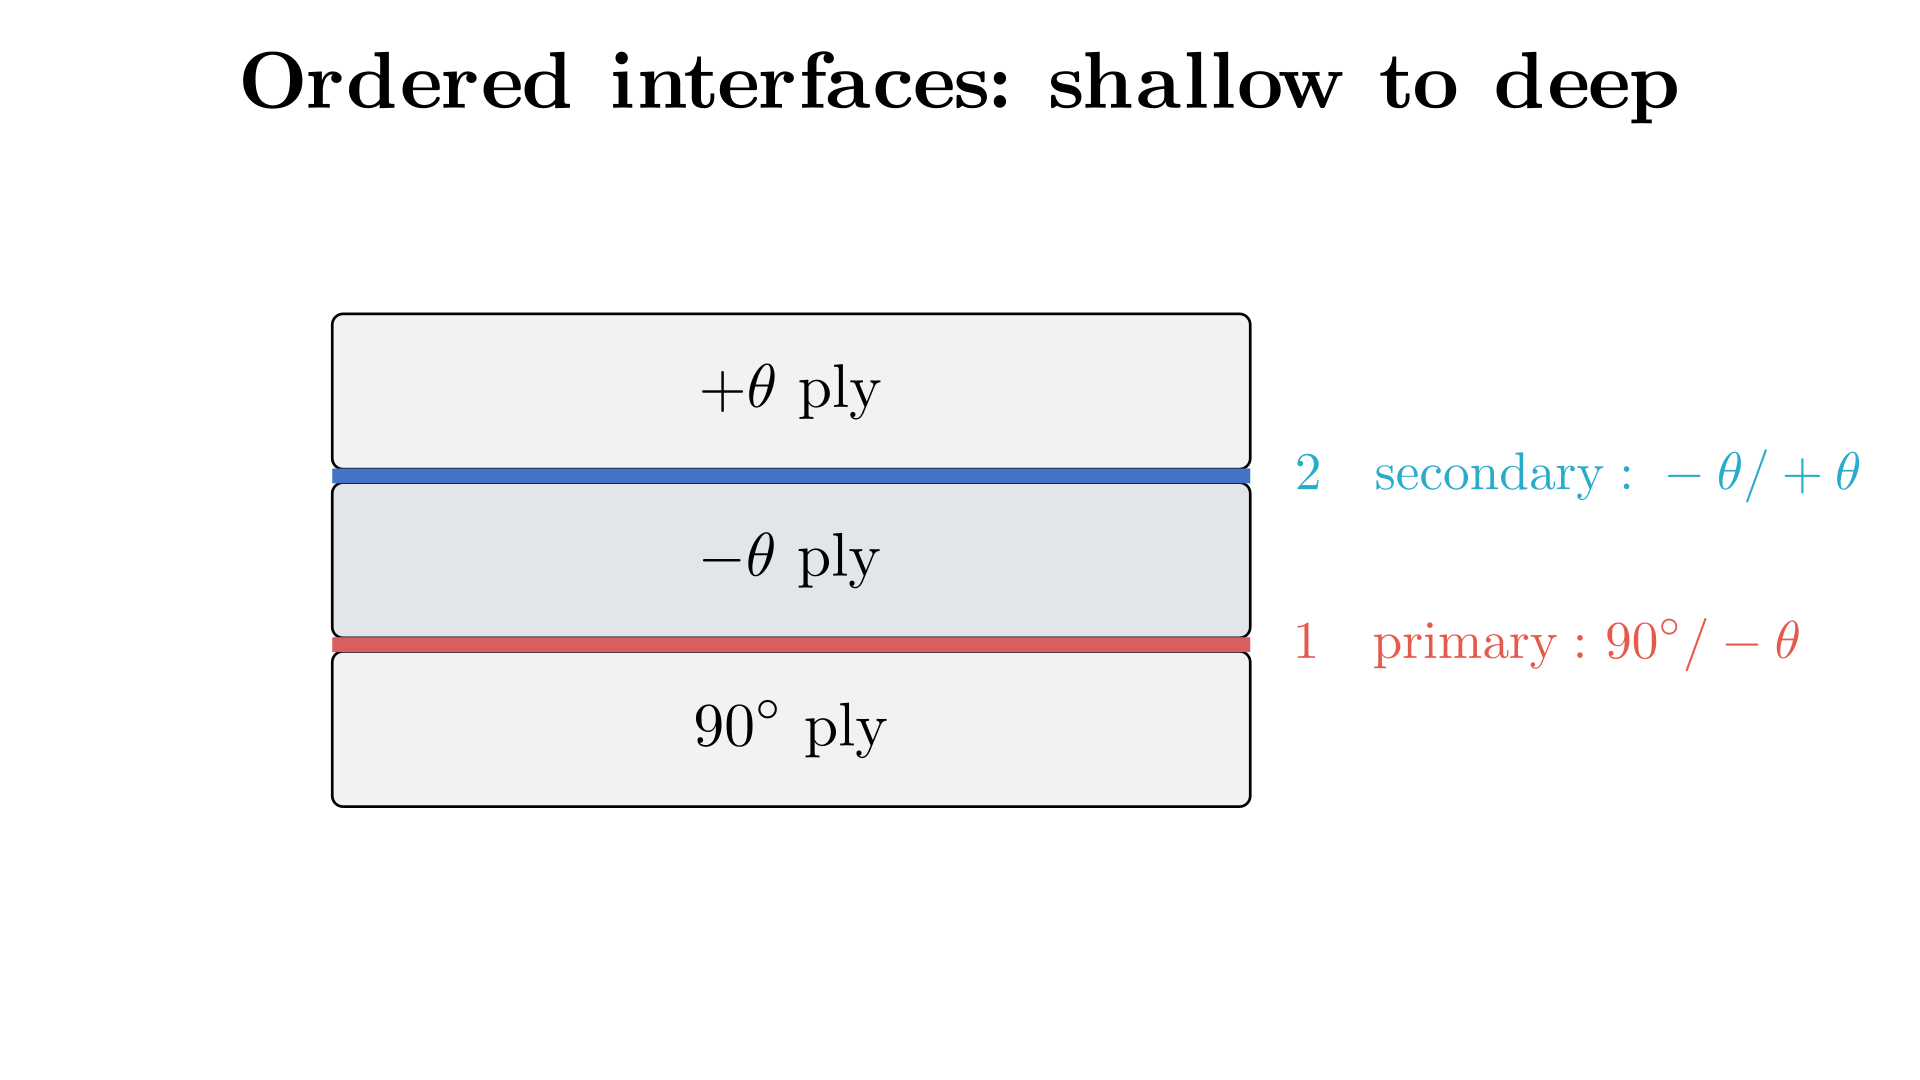
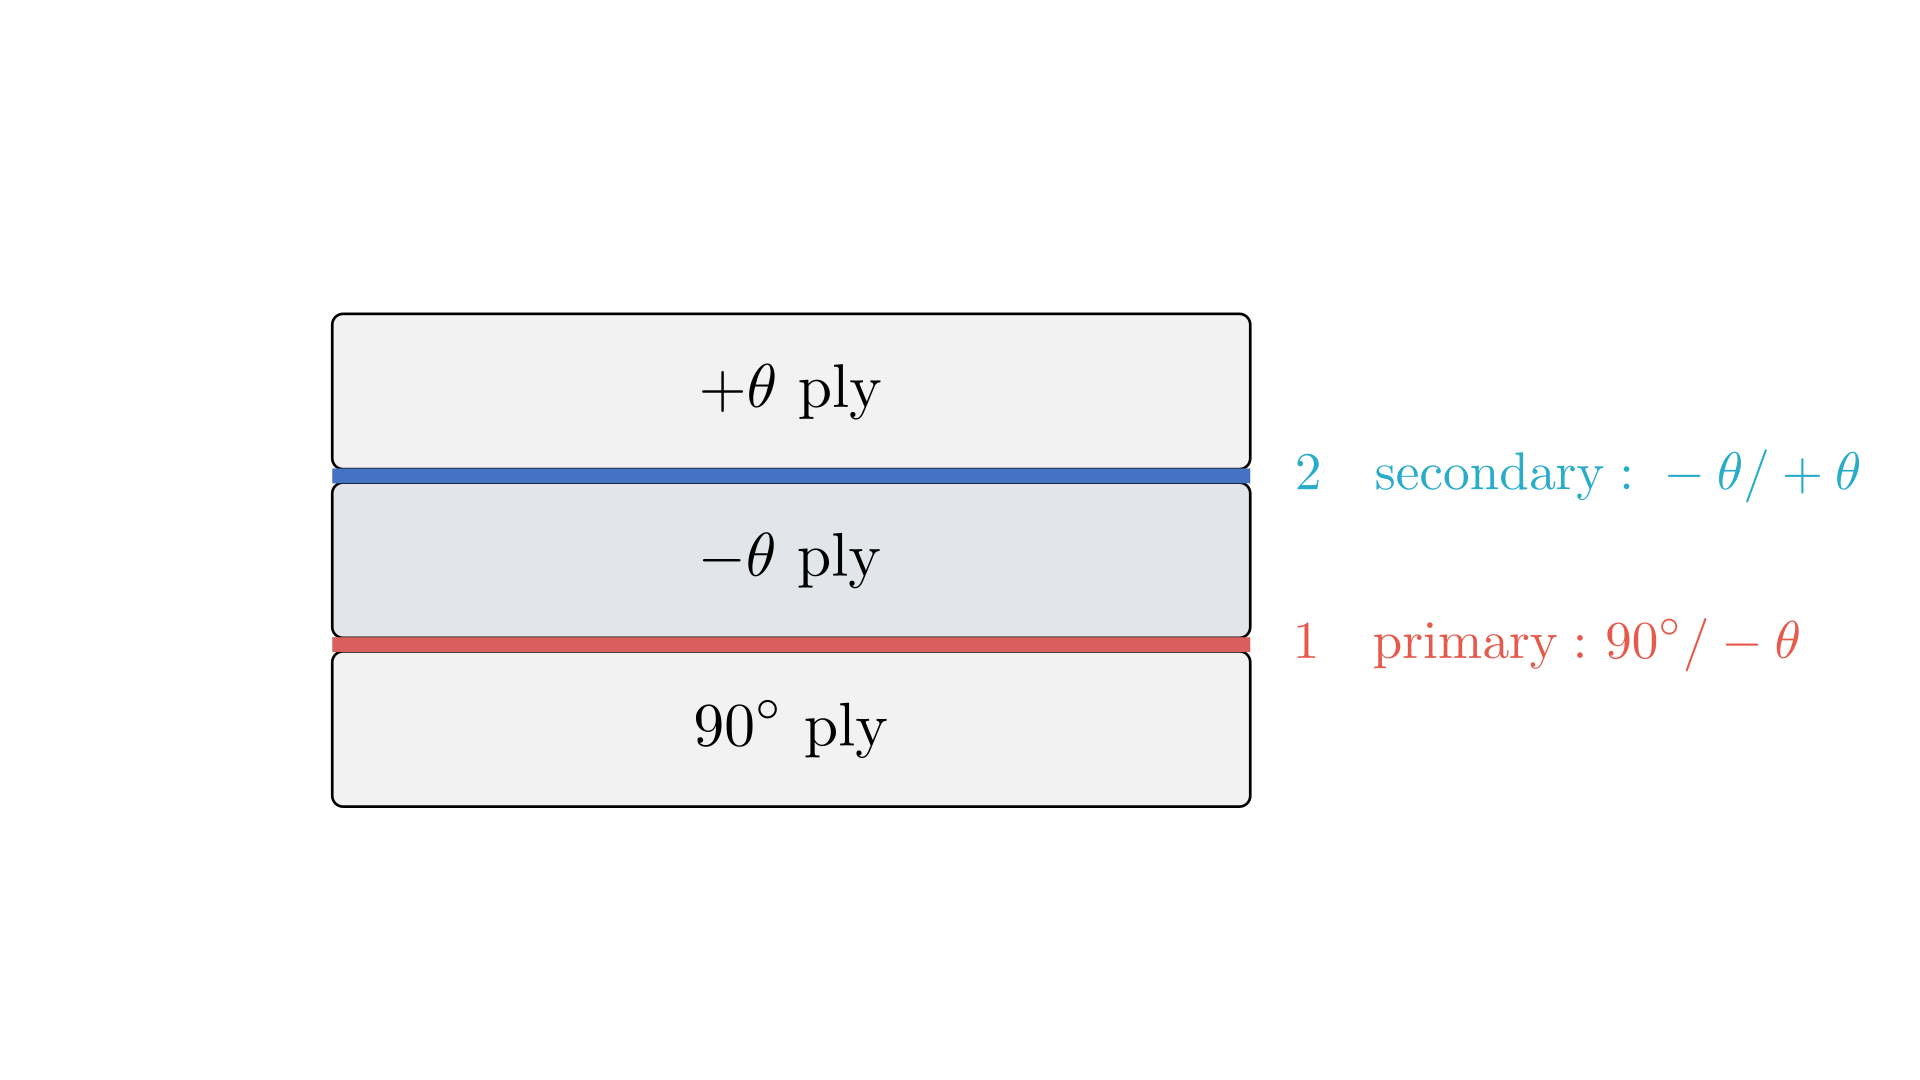
more info in the normalization and some figures

Changed region(s): [[0.125, 0.0306, 0.875, 0.1222]]

diff --git a/docs/generate_history_clamp_figure.py b/docs/generate_history_clamp_figure.py
@@ -1,0 +1,179 @@
+"""Generate the synthetic history-clamp figure used by the documentation."""
+
+from __future__ import annotations
+
+from pathlib import Path
+
+import matplotlib.pyplot as plt
+import numpy as np
+
+from deladect.detection.delamination._preprocess import PreprocessingMixin
+
+
+OUTPUT = Path(__file__).parent / "source" / "_static" / "normalization" / "history_clamp_noise.png"
+N_FRAMES = 25
+SHAPE = (96, 96)
+SAMPLE_FRAMES = (0, 4, 9, 16, 24)
+BACKGROUND_LEVEL = 0.68
+NOISE_SIGMA = 0.075
+SEED = 17
+
+
+class _HistoryProcessor(PreprocessingMixin):
+    """Minimal owner used to call the production history-clamp method."""
+
+    def __init__(self) -> None:
+        self._notice_flags: dict[str, bool] = {}
+
+
+def _synthetic_stack() -> tuple[list[np.ndarray], np.ndarray]:
+    """Return noisy frames and a mask selecting unchanged background pixels."""
+    rng = np.random.default_rng(SEED)
+    yy, xx = np.ogrid[: SHAPE[0], : SHAPE[1]]
+    blobs = (
+        (34, 30, 13),
+        (30, 64, 10),
+        (66, 55, 15),
+    )
+    damage = np.zeros(SHAPE, dtype=bool)
+    for cy, cx, radius in blobs:
+        damage |= (yy - cy) ** 2 + (xx - cx) ** 2 <= radius**2
+
+    stack: list[np.ndarray] = []
+    for _ in range(N_FRAMES):
+        frame = BACKGROUND_LEVEL + rng.normal(0.0, NOISE_SIGMA, SHAPE)
+        frame = np.clip(frame, 0.0, 1.0)
+        frame[damage] = 0.035
+        stack.append(np.round(frame * 255.0).astype(np.uint8))
+    return stack, ~damage
+
+
+def _background_summary(
+    stack: list[np.ndarray], background: np.ndarray
+) -> tuple[np.ndarray, np.ndarray, np.ndarray]:
+    """Return median, 10th percentile, and 90th percentile by frame."""
+    values = np.asarray([frame[background] for frame in stack], dtype=float) / 255.0
+    return (
+        np.median(values, axis=1),
+        np.percentile(values, 10, axis=1),
+        np.percentile(values, 90, axis=1),
+    )
+
+
+def main() -> None:
+    raw_stack, background = _synthetic_stack()
+    clamped_stack = _HistoryProcessor().apply_minimum_history(
+        raw_stack,
+        key="documentation_history_clamp",
+        history_buffers={},
+        mode="running",
+    )["frames"]
+
+    raw_median, raw_p10, raw_p90 = _background_summary(raw_stack, background)
+    clamp_median, clamp_p10, clamp_p90 = _background_summary(clamped_stack, background)
+
+    plt.rcParams.update(
+        {
+            "font.family": "serif",
+            "font.size": 16,
+            "axes.titlesize": 18,
+            "axes.labelsize": 18,
+            "axes.labelweight": "semibold",
+            "xtick.labelsize": 15,
+            "ytick.labelsize": 15,
+            "legend.fontsize": 16,
+        }
+    )
+    fig = plt.figure(figsize=(15.5, 12.2), constrained_layout=True)
+    grid = fig.add_gridspec(3, 10, height_ratios=(1.0, 1.0, 2.25))
+
+    for column, frame_idx in enumerate(SAMPLE_FRAMES):
+        raw_ax = fig.add_subplot(grid[0, 2 * column : 2 * column + 2])
+        clamp_ax = fig.add_subplot(grid[1, 2 * column : 2 * column + 2])
+        for axis, frame in ((raw_ax, raw_stack[frame_idx]), (clamp_ax, clamped_stack[frame_idx])):
+            axis.imshow(frame, cmap="gray", vmin=0, vmax=255, interpolation="nearest")
+            axis.set_xticks([])
+            axis.set_yticks([])
+            for spine in axis.spines.values():
+                spine.set_linewidth(1.4)
+        if column == 0:
+            raw_ax.set_ylabel("Unclamped", fontsize=19, fontweight="semibold")
+            clamp_ax.set_ylabel("History clamp", fontsize=19, fontweight="semibold")
+
+    hist_ax = fig.add_subplot(grid[2, :5])
+    bins = np.linspace(0.34, 1.0, 45)
+    blues = plt.cm.Blues(np.linspace(0.35, 0.90, 4))
+    for color, frame_idx in zip(blues, (0, 4, 9, 24)):
+        hist_ax.hist(
+            clamped_stack[frame_idx][background] / 255.0,
+            bins=bins,
+            histtype="step",
+            linewidth=2.2,
+            color=color,
+            label=f"clamped, frame {frame_idx}",
+        )
+    hist_ax.hist(
+        raw_stack[0][background] / 255.0,
+        bins=bins,
+        histtype="step",
+        linewidth=2.2,
+        linestyle="--",
+        color="#D62728",
+        label="unclamped (representative frame)",
+    )
+    hist_ax.set_title("Background distribution narrows and shifts as history accumulates")
+    hist_ax.set_xlabel("Pixel greyscale value")
+    hist_ax.set_ylabel("Pixel count")
+    hist_ax.set_xlim(bins[0], bins[-1])
+    hist_ax.legend(frameon=False, loc="upper right")
+
+    summary_ax = fig.add_subplot(grid[2, 5:])
+    frames = np.arange(N_FRAMES)
+    summary_ax.fill_between(
+        frames,
+        raw_p10,
+        raw_p90,
+        color="#D62728",
+        alpha=0.16,
+        linewidth=0,
+        label="unclamped 10th–90th percentile",
+    )
+    summary_ax.plot(
+        frames,
+        raw_median,
+        color="#D62728",
+        linestyle="--",
+        linewidth=2.2,
+        label="unclamped median",
+    )
+    summary_ax.fill_between(
+        frames,
+        clamp_p10,
+        clamp_p90,
+        color="#1F77B4",
+        alpha=0.22,
+        linewidth=0,
+        label="history clamp 10th–90th percentile",
+    )
+    summary_ax.plot(
+        frames,
+        clamp_median,
+        color="#1F77B4",
+        linewidth=2.4,
+        label="history clamp median",
+    )
+    summary_ax.set_title("Background median and central 80% interval")
+    summary_ax.set_xlabel("Frame index")
+    summary_ax.set_ylabel("Background greyscale value")
+    summary_ax.set_xlim(0, N_FRAMES - 1)
+    summary_ax.set_ylim(0.42, 0.82)
+    summary_ax.legend(frameon=False, loc="upper right")
+
+    OUTPUT.parent.mkdir(parents=True, exist_ok=True)
+    fig.savefig(OUTPUT, dpi=180, facecolor="white")
+    plt.close(fig)
+    print(OUTPUT)
+
+
+if __name__ == "__main__":
+    main()

diff --git a/docs/source/Image_pre_processing.rst b/docs/source/Image_pre_processing.rst
@@ -41,9 +41,9 @@ single frame and then go back to normal — that's noise, not damage, and it
 should be ignored. The history clamp does this by remembering, for every
 pixel, the darkest value it has *ever* reached so far, and forcing the
 current frame down to that darkest-so-far value: ``min(current_frame, history)``.
-A pixel only stays dark in the output once it has *actually* gone dark and
-stayed that way across frames; a one-frame flicker gets overwritten by the
-next frame's clamp and disappears.
+This suppresses transient bright excursions. In ``"running"`` mode, a dark
+excursion is retained; use a rolling history when old dark values should
+eventually leave the reference.
 
 This is on by default (``history_clamp=True``) and controlled by
 ``history_mode`` (``"running"`` — remembers the darkest value over the
@@ -51,24 +51,30 @@ This is on by default (``history_clamp=True``) and controlled by
 ``history_window_size`` frames).
 
 This is the same noise-suppression idea used by Bender et al. [Bender2021]_
-for crack detection in white-light imaging: without a clamp, each frame's
-noise level stays flat forever; with the running clamp, it decays and
-plateaus as more frames accumulate and pin down each pixel's true darkest
-value. The figure below shows this for DelaDect's own
+for crack detection in white-light imaging. Rather than reducing the effect
+to one standard deviation, the figure tracks the background median and its
+10th--90th percentile interval. This shows both consequences of the running
+minimum: the distribution becomes narrower and its centre shifts towards
+darker values as history accumulates. The figure uses DelaDect's own
 ``apply_minimum_history`` on a small synthetic noisy stack (not a real
-specimen, fixed round blobs standing in for persistent damage): the top two
-rows are an unclamped vs. history-clamped image-strip comparison across the
-stack, the clamped row visibly cleaning up while the unclamped row stays
-equally noisy; the bottom-left panel is the background pixel-value
-histogram at a few points in the stack, narrowing and shifting down as
-history accumulates; the bottom-right panel tracks the pixel standard
-deviation across the whole stack, flat without the clamp and converging
-with it.
+specimen).
 
-.. image:: _static/normalization/history_clamp_noise.png
-   :alt: An unclamped vs. history-clamped image strip across the stack, plus pixel-value histograms narrowing as history accumulates and a standard-deviation-vs-frame plot converging with the history clamp but staying flat without it
-   :width: 720
+.. figure:: _static/normalization/history_clamp_noise.png
+   :alt: Unclamped and history-clamped image strips, background pixel-value histograms, and a plot of the background median with its 10th-to-90th-percentile interval over time
+   :width: 960
    :align: center
+
+   Synthetic noisy frames with three fixed dark blobs standing in for
+   persistent damage, sampled at stack positions 0, 4, 9, 16, and 24 (left
+   to right in both rows). **Top row:** unclamped -- equally noisy at every
+   position. **Bottom row:** the same positions after ``apply_minimum_history``
+   (``mode="running"``), visibly cleaning up from left to right as more
+   history accumulates. **Bottom-left:** background pixel-value histogram at
+   a few of those positions, narrowing and shifting down with more history.
+   **Bottom-right:** background median (line) and 10th--90th percentile
+   interval (shaded band). The unclamped distribution remains broadly
+   stable, while the running clamp narrows the interval and shifts its
+   median downwards.
 
 Reference normalization
 ------------------------
@@ -219,4 +225,3 @@ References
    initiation and propagation in multidirectional GFRP laminate.
    *Composites Part B: Engineering*, 217, 108905.
    `<https://doi.org/10.1016/j.compositesb.2021.108905>`_
-
